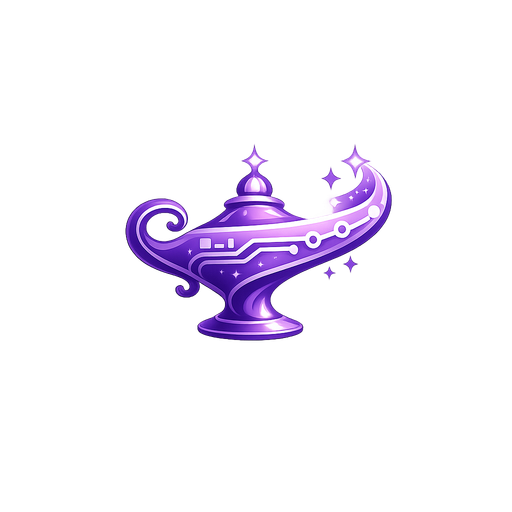
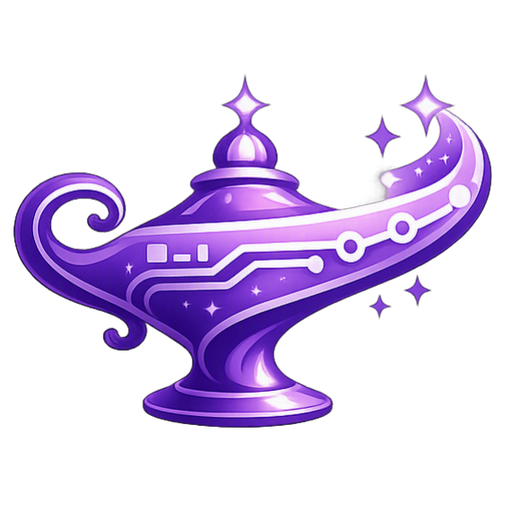
feat: 파비콘 이미지 교체, 헤드 타이틀 및 사이드바 로고 변경
- 새로 덮어쓴 icon.png(투명 배경)를 정사각형 512x512로 재처리해 반영
- 헤드 타이틀: "자동화 지니 - 당신의 노하우를 배우는 AI 마케팅 브레인"
- 좌측 사이드바 상단 로고: 텍스트 "jini.ai" -> 아이콘 이미지 + "자동화 지니"

Changed region(s): [[0.0, 0.1562, 0.9688, 0.8438]]

diff --git a/auto_genie/components/app-shell.tsx b/auto_genie/components/app-shell.tsx
@@ -1,6 +1,7 @@
 "use client";
 
 import { useState } from "react";
+import Image from "next/image";
 import Link from "next/link";
 import { usePathname, useSearchParams } from "next/navigation";
 import {
@@ -103,9 +104,9 @@ export function AppShell({
   return (
     <div className="min-h-screen flex bg-neutral-50">
       <aside className="w-64 shrink-0 border-r border-neutral-200 bg-white flex flex-col">
-        <div className="h-16 flex items-center px-5 border-b border-neutral-200">
-          <span className="text-lg font-semibold text-neutral-900">jini</span>
-          <span className="text-lg font-semibold text-violet-600">.ai</span>
+        <div className="h-16 flex items-center gap-2 px-5 border-b border-neutral-200">
+          <Image src="/icon.png" alt="자동화 지니" width={28} height={28} className="shrink-0" />
+          <span className="text-lg font-semibold text-neutral-900">자동화 지니</span>
         </div>
 
         <nav className="flex-1 overflow-y-auto py-4 px-3 space-y-1">

diff --git a/auto_genie/app/layout.tsx b/auto_genie/app/layout.tsx
@@ -14,7 +14,7 @@ const geistMono = Geist_Mono({
 });
 
 export const metadata: Metadata = {
-  title: "jini AI Marketing Brain",
+  title: "자동화 지니 - 당신의 노하우를 배우는 AI 마케팅 브레인",
   description: "기업 데이터를 학습해 마케팅 전략을 판단하는 AI 운영체계",
 };
 
